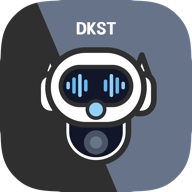
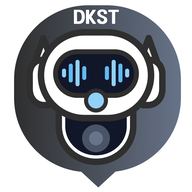
미비사항 갱신

diff --git a/frontend/app.js b/frontend/app.js
@@ -699,7 +699,7 @@ const translations = {
         'chat.reconnect.title': '연결이 잠시 멈춘 것 같습니다.',
         'chat.reconnect.body': '백그라운드 복귀 후 동기화가 지연되고 있습니다. 다시 연결을 시도해 주세요.',
         'chat.reconnect.action': '재접속 시도',
-        'chat.passiveSyncWaiting': '다른곳에서 응답이 생성중입니다. 응답이 끝나면 이 곳에 응답내용이 표시됩니다.',
+        'chat.passiveSyncWaiting': '다른 창에서 응답을 생성하고 있습니다...',
         'chat.passiveSyncThinking': '다른 창에서 응답을 생성하고 있습니다...',
         'chat.passiveSyncTool': '다른 창에서 MCP 도구를 사용 중입니다...',
         'input.placeholder': '메시지를 입력하세요...',
@@ -944,7 +944,7 @@ const translations = {
         'chat.reconnect.title': 'Connection seems paused.',
         'chat.reconnect.body': 'Sync has not resumed after returning from the background. Try reconnecting.',
         'chat.reconnect.action': 'Reconnect',
-        'chat.passiveSyncWaiting': 'A response is being generated elsewhere. It will appear here when it finishes.',
+        'chat.passiveSyncWaiting': 'Another window is generating a response...',
         'chat.passiveSyncThinking': 'Another window is generating a reply...',
         'chat.passiveSyncTool': 'Another window is using an MCP tool...',
         'input.placeholder': 'Type a message...',
@@ -4694,14 +4694,14 @@ function applyCurrentChatSessionEvent(entry) {
             const next = typeof payload.full_content === 'string'
                 ? payload.full_content
                 : appendStreamChunkDedup(serverReplayMessageBuffers.get(assistantId) || '', String(payload.content || ''));
-        
-        // Deep Sync Rationale: Do not buffer the "Generation in progress..." placeholder text
-        // so that it doesn't get treated as final content if the server doesn't send a full_content payload later.
-        if (next !== getPassiveSyncWaitingText()) {
-            serverReplayMessageBuffers.set(assistantId, next);
-        }
-        updateSyncedMessageContent(assistantId, next);
-        cleanupAssistantMessagesForTurn(serverReplayCurrentTurnId || entryTurnId, assistantId);
+
+            // Deep Sync Rationale: Do not buffer the "Generation in progress..." placeholder text
+            // so that it doesn't get treated as final content if the server doesn't send a full_content payload later.
+            if (next !== getPassiveSyncWaitingText()) {
+                serverReplayMessageBuffers.set(assistantId, next);
+            }
+            updateSyncedMessageContent(assistantId, next);
+            cleanupAssistantMessagesForTurn(serverReplayCurrentTurnId || entryTurnId, assistantId);
             break;
         }
         case 'reasoning.start':

diff --git a/frontend/index.html b/frontend/index.html
@@ -907,7 +907,7 @@
     <div class="controller">
         <div class="header">
             <div class="header-title">
-                <img src="public/icon-512.png" alt="DKST LLM Chat Server Icon" class="header-logo">
+                <img src="public/logo.png" alt="DKST LLM Chat Server Icon" class="header-logo">
                 <h1>DKST LLM Chat Server</h1>
             </div>
             <div id="llm-activity-indicator" class="llm-activity-indicator" aria-hidden="true" title="LLM idle">
